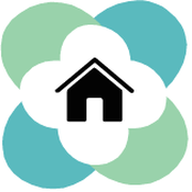
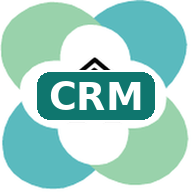
Íconos con CRM y OPS para diferenciar las dos apps
Claude-Session: https://claude.ai/code/session_01HmeRJCRLbCgJwi33zkSLUn

Changed region(s): [[0.1875, 0.3438, 0.8125, 0.6562]]

diff --git a/crm/index.html b/crm/index.html
@@ -11,7 +11,7 @@
 <!-- VERSIÓN: CRM_HomeDetox.html v17 · 2026-11-18 (vista para celular; página web privada con clave; trae al abrir los cambios hechos en otro dispositivo) -->
 <title>CRM Home Detox</title>
[2 lines of base64/hex data omitted]
+<link rel="apple-touch-icon" href="/crm/icon-192.png">
 <style>
 :root{--p:#0f766e;--p2:#14b8a6;--pl:#ccfbf1;--ink:#0f172a;--mut:#64748b;--line:#e2e8f0;--bg:#f4f7f6;--card:#fff;--ok:#16a34a;--warn:#f59e0b;--bad:#dc2626;--blue:#0ea5e9;--vio:#8b5cf6;--gold:#d4a017;--silver:#94a3b8;--bronze:#b87333;--r:14px}
 *{box-sizing:border-box}

diff --git a/index.html b/index.html
@@ -1,5 +1,5 @@
 <!DOCTYPE html>
-<!-- VERSIÓN: app/index.html v2 · 15 de noviembre de 2026 · app instalable (PWA) de Home Detox Operaciones -->
+<!-- VERSIÓN: app/index.html v3 · 18 de noviembre de 2026 · ícono con OPS para diferenciarla del CRM -->
 <html lang="es">
 <head>
 <meta charset="utf-8">
@@ -8,8 +8,8 @@
 <meta name="robots" content="noindex">
 <meta name="theme-color" content="#24797D">
 <link rel="manifest" href="manifest.webmanifest">
-<link rel="icon" href="https://homedetoxco.github.io/privacidad/icon.png">
-<link rel="apple-touch-icon" href="https://homedetoxco.github.io/privacidad/icon.png">
+<link rel="icon" href="/icon-ops-192.png">
+<link rel="apple-touch-icon" href="/icon-ops-192.png">
 <meta name="apple-mobile-web-app-capable" content="yes">
 <meta name="mobile-web-app-capable" content="yes">
 <meta name="apple-mobile-web-app-title" content="HD Operaciones">
